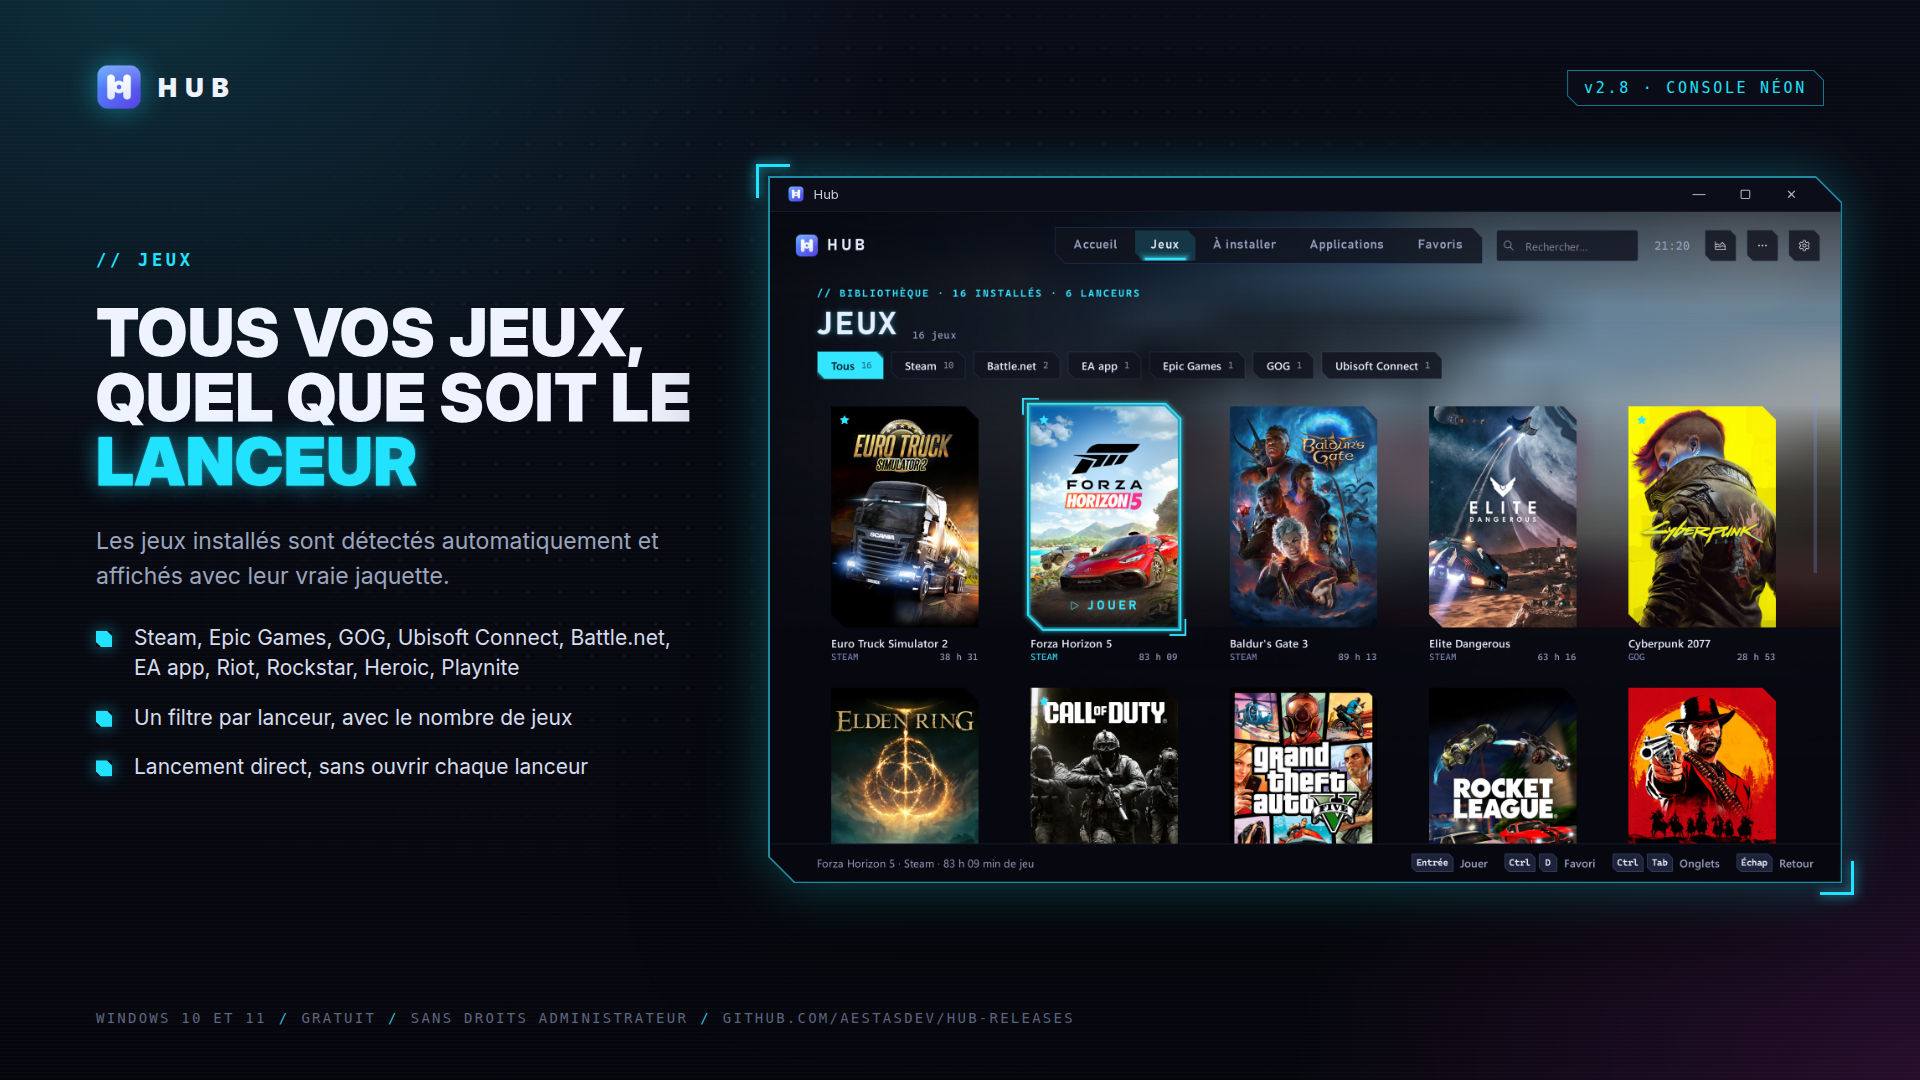
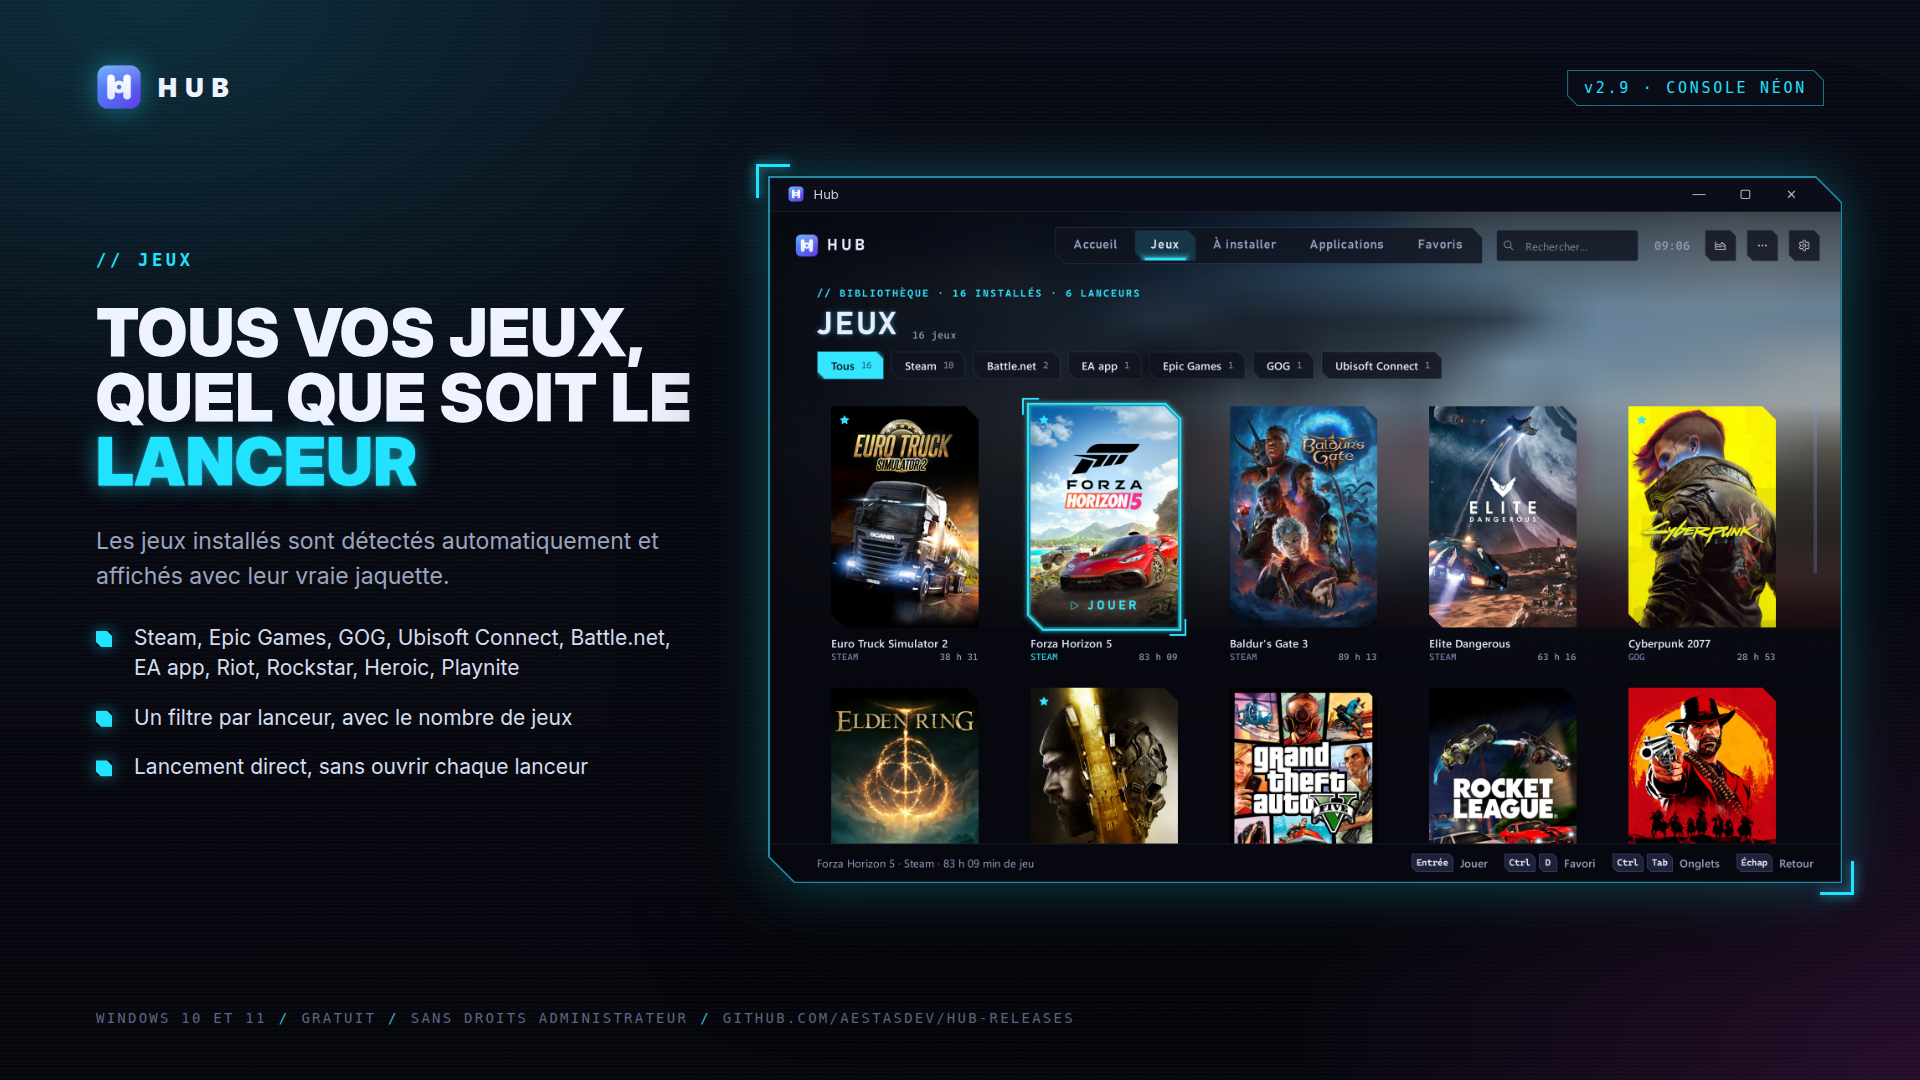
Page en anglais par défaut (README.fr.md en français), visuels 2.9 en français et en anglais

Changed region(s): [[0.5312, 0.6111, 0.625, 0.7944]]

diff --git a/README.md b/README.md
@@ -1,85 +1,89 @@
 <p align="center">
-  <img src="images/logo.png" width="120" alt="Logo du Hub">
+  <img src="images/logo.png" width="120" alt="Hub logo">
 </p>
 
 <h1 align="center">Hub</h1>
 
 <p align="center">
-  <b>Toutes vos applications et vos jeux, au même endroit.</b><br>
-  Un lanceur rapide et élégant pour Windows 10 et 11.
+  <b>All your apps and games, in one place.</b><br>
+  A fast, good-looking launcher for Windows 10 and 11.
 </p>
 
 <p align="center">
-  <a href="https://github.com/AestasDev/HUB-releases/releases/latest"><b>⬇ Télécharger la dernière version</b></a>
+  <a href="https://github.com/AestasDev/HUB-releases/releases/latest"><b>⬇ Download the latest version</b></a>
   &nbsp;·&nbsp;
-  <a href="https://discord.gg/bhseMPZqn8"><b>💬 Rejoindre le Discord</b></a>
+  <a href="https://discord.gg/bhseMPZqn8"><b>💬 Join the Discord</b></a>
+  &nbsp;·&nbsp;
+  <a href="README.fr.md">🇫🇷 Français</a>
 </p>
 
-![Hub](images/01-hub.png)
+![Hub](images/en/01-hub.png)
 
-## Fonctionnalités
+## Features
 
-- **Interface façon console**, style néon : vos jeux avec leurs vraies jaquettes, le dernier joué en grand
-  avec son illustration officielle et un bouton « Jouer ».
-- **Détection automatique** des applications installées : menu Démarrer, Microsoft Store, Steam, Epic Games,
-  GOG, Ubisoft Connect, Battle.net, EA app, Riot, Rockstar Games, Heroic, Playnite, et les programmes sans
-  raccourci présents sur tous les disques.
-- **Jeux à installer** : un onglet à part pour les jeux de vos bibliothèques Steam, Epic Games, GOG Galaxy et
-  Ubisoft Connect qui ne sont pas installés, et pour les jeux Battle.net et Rockstar déjà lancés sur ce PC ;
-  un clic ouvre leur installation.
-- **Temps de jeu Steam** repris automatiquement : le bon jeu est mis en avant dès le premier lancement.
-- **Manette Xbox** : le Hub se pilote entièrement à la manette, comme une console.
-- **Recherche instantanée** : initiales, fautes de frappe, calculatrice, paramètres Windows, recherche web.
-- **Accueil** avec accès rapide à l'Explorateur, au Gestionnaire des tâches, à la corbeille et aux
-  applications installées.
-- **Profils de lancement** : plusieurs applications ouvertes d'un seul clic, dans l'ordre choisi (par exemple
-  OBS, Discord et Spotify pour un live).
-- **Statistiques** du temps réellement passé dans chaque jeu et application (données conservées sur votre PC),
-  et un **bilan de la semaine** chaque dimanche soir : temps de jeu et jeux les plus joués.
-- **Couleur d'accent** au choix (néon cyan, magenta, braise, améthyste, menthe, couleur de la jaquette ou de
-  Windows) ; favoris, catégories, applications masquées.
-- **Désinstaller** un jeu ou une application d'un clic droit, et **Nettoyage** : récupérez la place laissée par
-  les jeux désinstallés (dossiers mis à la corbeille) et rangez les raccourcis cassés du menu Démarrer.
-- **Sauvegarde** de vos réglages, favoris, profils et statistiques dans un fichier .zip, à réimporter après une
-  réinstallation de Windows ou sur un autre PC.
-- **Ranger le bureau** : les raccourcis des applications trouvées quittent le bureau, gardés en sauvegarde
-  et remis en place en un clic.
-- **Raccourci global**, icône de notification, démarrage avec Windows et **mises à jour automatiques**, avec
-  les nouveautés présentées après chaque mise à jour.
-- **Français ou anglais**, selon la langue de Windows (Hub is also available in English).
+- **Console-style interface** with a neon look: your games with their real cover art, the last one you played
+  front and center with its official artwork and a “Play” button.
+- **Automatic detection** of installed apps: Start menu, Microsoft Store, Steam, Epic Games, GOG,
+  Ubisoft Connect, Battle.net, EA app, Riot, Rockstar Games, Heroic, Playnite, and programs without a shortcut
+  on any drive.
+- **Cover art for all your games**: Steam's own, and for other launchers, the artwork from your Epic library or
+  the Steam store, kept on your PC.
+- **Games to install**: a separate tab for the games in your Steam, Epic Games, GOG Galaxy and Ubisoft Connect
+  libraries that aren't installed, plus Battle.net and Rockstar games already played on this PC. Search finds
+  them too, and one click opens their installation.
+- **Free games from Epic Games**: this week's free game and the next one on the Home page, with a notification
+  each time a new game is given away.
+- **Steam playtime** imported automatically: the right game is featured from the very first launch.
+- **Xbox controller**: the Hub works entirely with a controller, like a console.
+- **Instant search**: initials, typos, calculator, Windows settings, web search.
+- **Home page** with quick access to File Explorer, Task Manager, the Recycle Bin and installed apps.
+- **Launch profiles**: several apps opened in a single click, in the order you choose (for example OBS,
+  Discord and Spotify for a stream).
+- **Statistics** of the time actually spent in each game and app (data stays on your PC), and a
+  **weekly recap** every Sunday evening: playtime and most-played games.
+- **Accent color** of your choice (neon cyan, magenta, ember, amethyst, mint, cover art color or Windows
+  accent); favorites, categories, hidden apps.
+- **Uninstall** a game or app with a right-click, and **Cleanup**: reclaim the space left by uninstalled games
+  (folders moved to the Recycle Bin) and put away broken Start menu shortcuts.
+- **Backup** of your settings, favorites, profiles and statistics in a .zip file, to restore after reinstalling
+  Windows or on another PC.
+- **Tidy up desktop**: shortcuts for the apps the Hub found leave the desktop, kept in a backup and put back in
+  one click.
+- **Global shortcut**, notification area icon, start with Windows and **automatic updates**, with what's new
+  shown after each update.
+- **English or French**, based on your Windows language.
 
-## Aperçu
+## Screenshots
 
-![Accueil et accès rapide](images/02-accueil.png)
-![Tous vos jeux réunis](images/03-jeux.png)
-![Jeux à installer](images/04-a-installer.png)
-![Profils de lancement](images/05-profils.png)
-![À la manette](images/06-manette.png)
-![Recherche instantanée](images/07-recherche.png)
-![Personnalisation](images/08-personnalisation.png)
-![Couleurs d'accent](images/09-couleurs.png)
-![Statistiques d'utilisation](images/10-statistiques.png)
-![Nettoyage](images/11-nettoyage.png)
-![Désinstaller et sauvegarder](images/12-desinstaller-sauvegarder.png)
-![Ranger le bureau](images/13-bureau.png)
-![Toujours prêt](images/14-toujours-pret.png)
+![Home and quick access](images/en/02-accueil.png)
+![All your games together](images/en/03-jeux.png)
+![Games to install](images/en/04-a-installer.png)
+![Launch profiles](images/en/05-profils.png)
+![With a controller](images/en/06-manette.png)
+![Instant search](images/en/07-recherche.png)
+![Customization](images/en/08-personnalisation.png)
+![Accent colors](images/en/09-couleurs.png)
+![Usage statistics](images/en/10-statistiques.png)
+![Cleanup](images/en/11-nettoyage.png)
+![Uninstall and back up](images/en/12-desinstaller-sauvegarder.png)
+![Tidy up desktop](images/en/13-bureau.png)
+![Always ready](images/en/14-toujours-pret.png)
 
 ## Installation
 
-1. Téléchargez `Hub-Setup-X.Y.Z.exe` depuis la [dernière version](https://github.com/AestasDev/HUB-releases/releases/latest).
-2. Lancez-le : l'installation se fait par utilisateur, **sans droits administrateur**.
-3. Une fois installé, le Hub se met à jour tout seul à partir de ce dépôt.
+1. Download `Hub-Setup-X.Y.Z.exe` from the [latest release](https://github.com/AestasDev/HUB-releases/releases/latest).
+2. Run it: it installs for your user account only, **no administrator rights needed**.
+3. Once installed, the Hub updates itself from this repository.
 
-L'exécutable n'est pas signé : Windows SmartScreen peut afficher un avertissement
-(« Informations complémentaires » → « Exécuter quand même »).
+The installer is not signed, so Windows SmartScreen may show a warning (“More info” → “Run anyway”).
 
-Ce dépôt ne contient que les versions publiées ; le code source est privé.
+This repository only holds the published releases; the source code is private.
 
-## Communauté
+## Community
 
-- **Discord** : [discord.gg/bhseMPZqn8](https://discord.gg/bhseMPZqn8), pour poser vos questions, proposer des idées
-  et suivre les nouvelles versions.
-- **Un bug ?** Dans le Hub, menu « Plus d'options » → « Signaler un problème… » : le rapport est déjà préparé.
-  Vous pouvez aussi ouvrir un rapport dans l'onglet [Issues](https://github.com/AestasDev/HUB-releases/issues).
-- **Soutenir le projet** : le Hub est gratuit. Si vous l'aimez, vous pouvez soutenir son développement sur
+- **Discord**: [discord.gg/bhseMPZqn8](https://discord.gg/bhseMPZqn8), to ask questions, suggest ideas and
+  follow new releases.
+- **Found a bug?** In the Hub, “More options” menu → “Report a problem…”: the report is already prepared.
+  You can also open one in the [Issues](https://github.com/AestasDev/HUB-releases/issues) tab.
+- **Support the project**: the Hub is free. If you like it, you can support its development on
   [Patreon](https://www.patreon.com/AestasFR).

diff --git a/README.fr.md b/README.fr.md
@@ -1,0 +1,91 @@
+<p align="center">
+  <img src="images/logo.png" width="120" alt="Logo du Hub">
+</p>
+
+<h1 align="center">Hub</h1>
+
+<p align="center">
+  <b>Toutes vos applications et vos jeux, au même endroit.</b><br>
+  Un lanceur rapide et élégant pour Windows 10 et 11.
+</p>
+
+<p align="center">
+  <a href="https://github.com/AestasDev/HUB-releases/releases/latest"><b>⬇ Télécharger la dernière version</b></a>
+  &nbsp;·&nbsp;
+  <a href="https://discord.gg/bhseMPZqn8"><b>💬 Rejoindre le Discord</b></a>
+  &nbsp;·&nbsp;
+  <a href="README.md">🇬🇧 English</a>
+</p>
+
+![Hub](images/01-hub.png)
+
+## Fonctionnalités
+
+- **Interface façon console**, style néon : vos jeux avec leurs vraies jaquettes, le dernier joué en grand
+  avec son illustration officielle et un bouton « Jouer ».
+- **Détection automatique** des applications installées : menu Démarrer, Microsoft Store, Steam, Epic Games,
+  GOG, Ubisoft Connect, Battle.net, EA app, Riot, Rockstar Games, Heroic, Playnite, et les programmes sans
+  raccourci présents sur tous les disques.
+- **Jaquettes pour tous vos jeux** : celles de Steam, et pour les autres lanceurs, celles de votre bibliothèque
+  Epic ou de la boutique Steam, gardées sur votre PC.
+- **Jeux à installer** : un onglet à part pour les jeux de vos bibliothèques Steam, Epic Games, GOG Galaxy et
+  Ubisoft Connect qui ne sont pas installés, et pour les jeux Battle.net et Rockstar déjà lancés sur ce PC ;
+  la recherche les trouve aussi, et un clic ouvre leur installation.
+- **Jeux offerts par Epic Games** : le jeu gratuit de la semaine et le suivant, sur l'accueil, avec une
+  notification à chaque nouveau jeu offert.
+- **Temps de jeu Steam** repris automatiquement : le bon jeu est mis en avant dès le premier lancement.
+- **Manette Xbox** : le Hub se pilote entièrement à la manette, comme une console.
+- **Recherche instantanée** : initiales, fautes de frappe, calculatrice, paramètres Windows, recherche web.
+- **Accueil** avec accès rapide à l'Explorateur, au Gestionnaire des tâches, à la corbeille et aux
+  applications installées.
+- **Profils de lancement** : plusieurs applications ouvertes d'un seul clic, dans l'ordre choisi (par exemple
+  OBS, Discord et Spotify pour un live).
+- **Statistiques** du temps réellement passé dans chaque jeu et application (données conservées sur votre PC),
+  et un **bilan de la semaine** chaque dimanche soir : temps de jeu et jeux les plus joués.
+- **Couleur d'accent** au choix (néon cyan, magenta, braise, améthyste, menthe, couleur de la jaquette ou de
+  Windows) ; favoris, catégories, applications masquées.
+- **Désinstaller** un jeu ou une application d'un clic droit, et **Nettoyage** : récupérez la place laissée par
+  les jeux désinstallés (dossiers mis à la corbeille) et rangez les raccourcis cassés du menu Démarrer.
+- **Sauvegarde** de vos réglages, favoris, profils et statistiques dans un fichier .zip, à réimporter après une
+  réinstallation de Windows ou sur un autre PC.
+- **Ranger le bureau** : les raccourcis des applications trouvées quittent le bureau, gardés en sauvegarde
+  et remis en place en un clic.
+- **Raccourci global**, icône de notification, démarrage avec Windows et **mises à jour automatiques**, avec
+  les nouveautés présentées après chaque mise à jour.
+- **Français ou anglais**, selon la langue de Windows.
+
+## Aperçu
+
+![Accueil et accès rapide](images/02-accueil.png)
+![Tous vos jeux réunis](images/03-jeux.png)
+![Jeux à installer](images/04-a-installer.png)
+![Profils de lancement](images/05-profils.png)
+![À la manette](images/06-manette.png)
+![Recherche instantanée](images/07-recherche.png)
+![Personnalisation](images/08-personnalisation.png)
+![Couleurs d'accent](images/09-couleurs.png)
+![Statistiques d'utilisation](images/10-statistiques.png)
+![Nettoyage](images/11-nettoyage.png)
+![Désinstaller et sauvegarder](images/12-desinstaller-sauvegarder.png)
+![Ranger le bureau](images/13-bureau.png)
+![Toujours prêt](images/14-toujours-pret.png)
+
+## Installation
+
+1. Téléchargez `Hub-Setup-X.Y.Z.exe` depuis la [dernière version](https://github.com/AestasDev/HUB-releases/releases/latest).
+2. Lancez-le : l'installation se fait par utilisateur, **sans droits administrateur**.
+3. Une fois installé, le Hub se met à jour tout seul à partir de ce dépôt.
+
+L'exécutable n'est pas signé : Windows SmartScreen peut afficher un avertissement
+(« Informations complémentaires » → « Exécuter quand même »).
+
+Ce dépôt ne contient que les versions publiées ; le code source est privé.
+
+## Communauté
+
+- **Discord** : [discord.gg/bhseMPZqn8](https://discord.gg/bhseMPZqn8), pour poser vos questions, proposer des idées
+  et suivre les nouvelles versions.
+- **Un bug ?** Dans le Hub, menu « Plus d'options » → « Signaler un problème… » : le rapport est déjà préparé.
+  Vous pouvez aussi ouvrir un rapport dans l'onglet [Issues](https://github.com/AestasDev/HUB-releases/issues).
+- **Soutenir le projet** : le Hub est gratuit. Si vous l'aimez, vous pouvez soutenir son développement sur
+  [Patreon](https://www.patreon.com/AestasFR).
